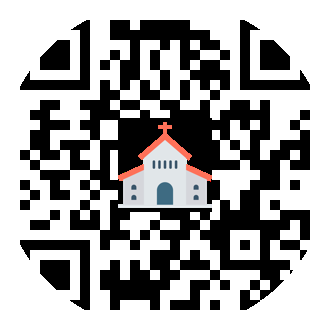
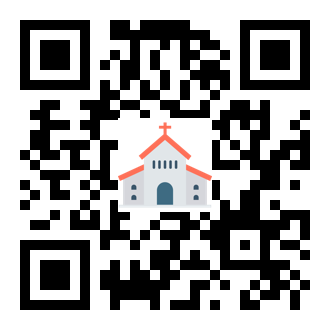
updated to be a class

diff --git a/src/barcode_memory.py b/src/barcode_memory.py
@@ -1,54 +1,61 @@
 import qrcode
 from PIL import Image, ImageOps, ImageDraw
 
-# The URL that you want the barcode to open
-url = 'https://youtube.com'
 
-# Generate the QR code
-qr = qrcode.QRCode(
-    version=1,
-    error_correction=qrcode.constants.ERROR_CORRECT_H,
-    box_size=10,
-    border=2,  # Reduce the border thickness
+class QRCodeGenerator:
+    def __init__(self, url, logo_path, output_path, qr_color="black", bg_color="white"):
+        self.url = url
+        self.logo_path = logo_path
+        self.output_path = output_path
+        self.qr_color = qr_color
+        self.bg_color = bg_color
+        self.qr = None
+        self.img = None
+        self.logo = None
+
+    def generate_qr_code(self):
+        self.qr = qrcode.QRCode(
+            version=1,
+            error_correction=qrcode.constants.ERROR_CORRECT_H,
+            box_size=10,
+            border=2,
+        )
+        self.qr.add_data(self.url)
+        self.qr.make(fit=True)
+        self.img = self.qr.make_image(fill=self.qr_color, back_color=self.bg_color)
+        self.img = self.img.convert("RGBA")
+
+    def open_logo(self):
+        self.logo = Image.open(self.logo_path)
+
+    def scale_logo(self):
+        img_w, img_h = self.img.size
+        logo_w, logo_h = self.logo.size
+        scale = min(img_w / logo_w, img_h / logo_h) / 3.5
+        new_w = int(logo_w * scale)
+        new_h = int(logo_h * scale)
+        self.logo = self.logo.resize((new_w, new_h))
+
+    def paste_logo(self):
+        img_w, img_h = self.img.size
+        logo_w, logo_h = self.logo.size
+        pos_w = (img_w - logo_w) // 2
+        pos_h = (img_h - logo_h) // 2
+        self.img.paste(self.logo, (pos_w, pos_h, pos_w + logo_w, pos_h + logo_h))
+
+    def save_image(self):
+        self.img.save(self.output_path)
+
+    def generate(self):
+        self.generate_qr_code()
+        self.open_logo()
+        self.scale_logo()
+        self.paste_logo()
+        self.save_image()
+
+
+# Usage
+generator = QRCodeGenerator(
+    "https://youtube.com", "src/church.png", "qrcode.png", "teal", "white"
 )
-qr.add_data(url)
-qr.make(fit=True)
-
-# Create an image from the QR code instance with custom colors
-img = qr.make_image(fill='purple', back_color='white')
-
-# Convert the image mode to 'RGBA'
-img = img.convert('RGBA')
-
-# Open the overlay image (the image to put at the center). 
-# Make sure it's in the same directory as your script, or provide the full path.
-logo = Image.open('src/church.png')
-
-# Calculate dimensions of QR code and logo
-img_w, img_h = img.size
-logo_w, logo_h = logo.size
-
-# Scale logo to fit into QR code
-scale = min(img_w / logo_w, img_h / logo_h) / 3.5
-new_w = int(logo_w * scale)
-new_h = int(logo_h * scale)
-logo = logo.resize((new_w, new_h))
-
-# Calculate position for new logo
-pos_w = (img_w - new_w) // 2
-pos_h = (img_h - new_h) // 2
-
-# Paste the logo into the QR code
-img.paste(logo, (pos_w, pos_h, pos_w + new_w, pos_h + new_h))
-
-# Create a mask for the rounded corners
-mask = Image.new('L', img.size, 0)
-draw = ImageDraw.Draw(mask)
-draw.ellipse((0, 0) + img.size, fill=255)
-
-# Apply the mask to the QR code
-img = ImageOps.fit(img, mask.size, centering=(0.5, 0.5))
-img.putalpha(mask)
-
-# Save the image
-img.save('qrcode.png')
+generator.generate()
